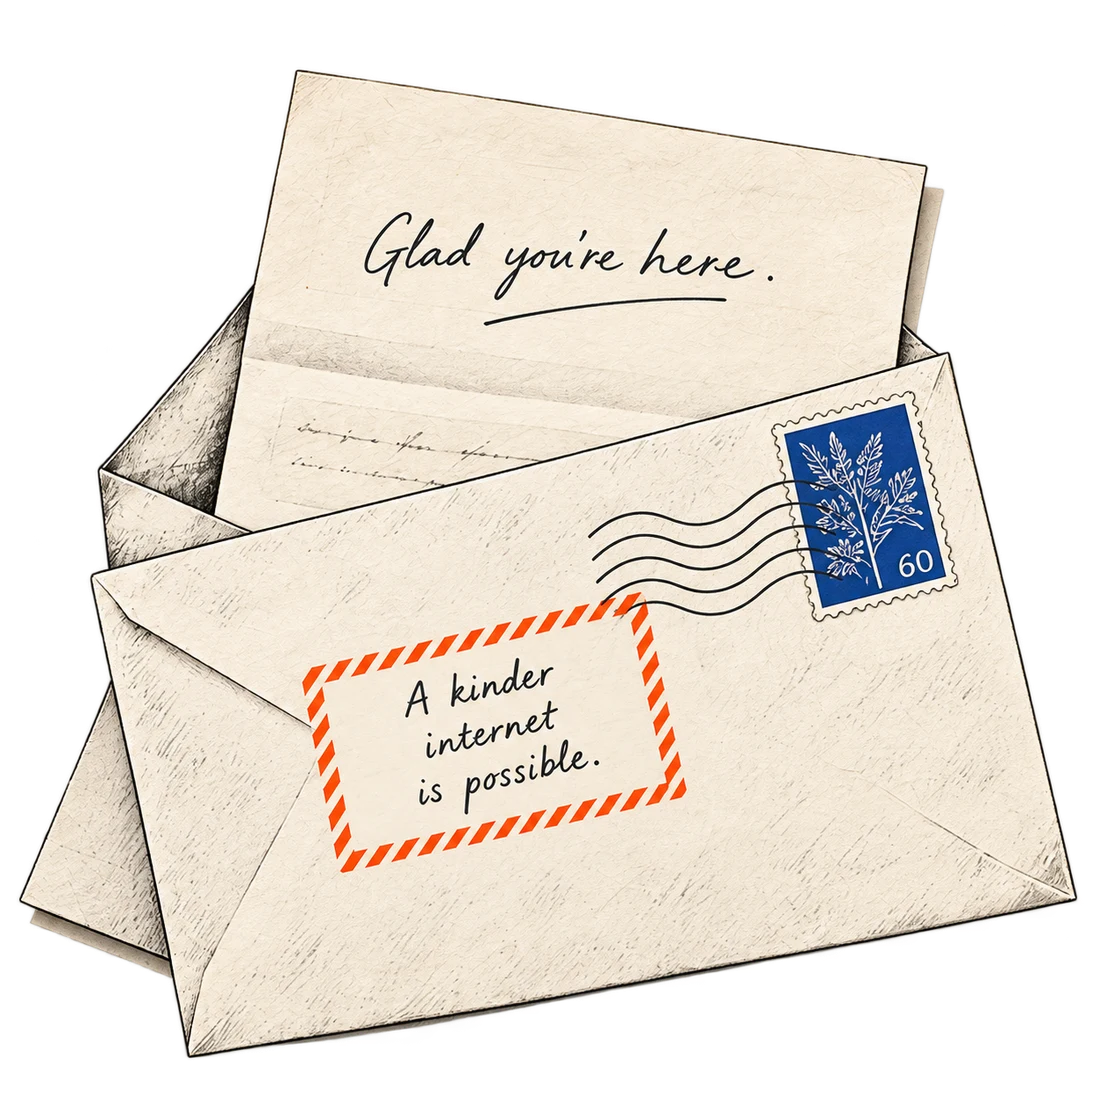
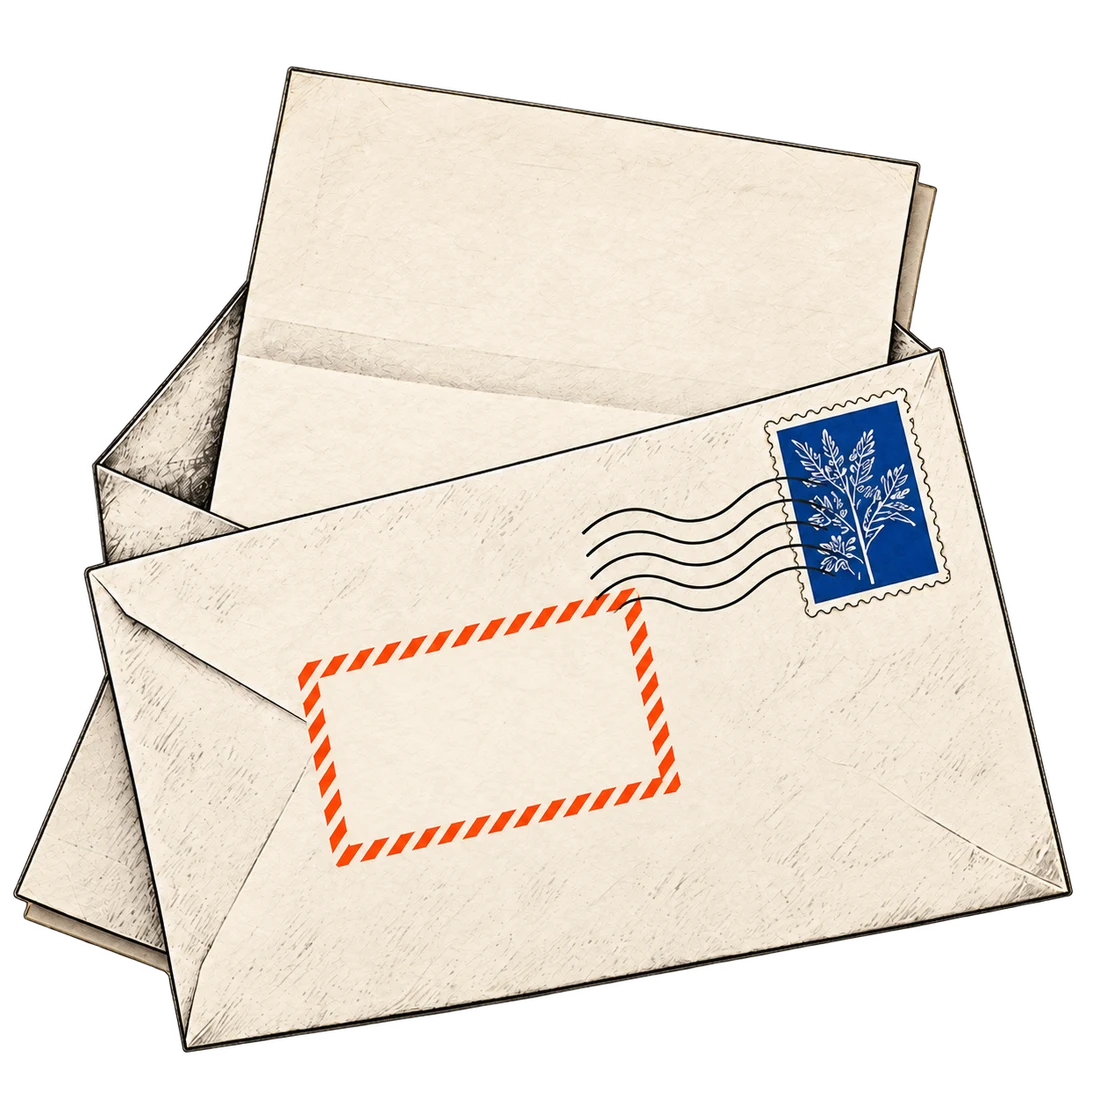
Remove unapproved slogans from envelope artwork and copy

diff --git a/components/homepage/home-desktop.tsx b/components/homepage/home-desktop.tsx
@@ -158,13 +158,13 @@ export default function HomeDesktop() {
               <p className={styles.tagline}>Turning my ideas, and yours,<br className={styles.desktopBreak} /> into reality.</p>
               <div className={styles.heroActions}><a href="/learn" className={styles.button}>Explore the guides <ArrowRight size={24} aria-hidden="true" /></a><a href="/about" className={styles.textLink}>My story <ArrowUpRight size={16} aria-hidden="true" /></a></div>
             </div>
-            <img className={styles.heroLetter} src="/homepage/welcome-letter-d.webp" width="1024" height="1024" alt="An open paper envelope with a handwritten note: Glad you’re here. A kinder internet is possible." fetchPriority="high" />
+            <img className={styles.heroLetter} src="/homepage/welcome-letter-d.webp" width="1024" height="1024" alt="An open ivory envelope with blank paper and a blue botanical postage stamp." fetchPriority="high" />
           </div>
         </section> : <button className={`${styles.window} ${styles.restoreWelcome}`} type="button" onClick={restoreWelcome}><FileText size={19} aria-hidden="true" /><span>Open Dear Internet,</span><ArrowUpRight size={18} aria-hidden="true" /></button>}
         {contactOpen && <section className={`${styles.window} ${styles.contactWindow} ${activeWindow === "contact" ? styles.activeWindow : ""}`} aria-labelledby="contact-title" onPointerDown={() => setActiveWindow("contact")} onFocusCapture={() => setActiveWindow("contact")}>
           <WindowBar title="Keep in touch" warm onMinimize={() => setContactOpen(false)} onClose={() => setContactOpen(false)} />
           <div className={styles.contactBody}>
-            <h2 id="contact-title">A little mail from Michelle.</h2>
+            <h2 id="contact-title">Magazine &amp; pen pals</h2>
             <a href={signupForms.magazine.pagePath} onClick={event => handleSignupLink(event, signupForms.magazine.pagePath)}><span><strong>Magazine</strong><small>Join the magazine waitlist</small></span><ArrowUpRight size={20} aria-hidden="true" /></a>
             <a href={signupForms.penpals.pagePath} onClick={event => handleSignupLink(event, signupForms.penpals.pagePath)}><span><strong>Pen pals</strong><small>Want a handwritten letter from me?</small></span><ArrowUpRight size={20} aria-hidden="true" /></a>
           </div>

diff --git a/docs/selected-d-assets.md b/docs/selected-d-assets.md
@@ -8,7 +8,22 @@ Michelle selected Deep Denim Bright Windows (Library `libfile_815b1ecd5c38819187
 - Computer windows, text, buttons, navigation, focus, and window controls are HTML/CSS/React, not part of the generated images.
 - Typography uses system Times and Georgia. No Soup du Jour webfont was embedded. The reported MyFonts webfont license needs domain/expiry verification before future embedding; no payment or renewal was changed.
 
-## Envelope prompt
+## Current envelope text-removal edit
+
+The initial mockup wording was not approved brand copy. The final asset removes all lettering instead of inventing a mission or replacing the slogan. The four existing navigation illustrations were visually audited and retained unchanged; none contains readable generic slogans.
+
+```text
+Generate an image with the following prompt, dont change it(DO NOT CHANGE THIS PROMPT, IT'S ALREADY AN IMPROVED PROMPT) -
+
+Task: precise text removal from the attached transparent envelope illustration.
+Aspect ratio: 1:1.
+Edit target: the attached existing envelope artwork.
+Change only: remove ALL handwriting, words, slogans, letters and numbers, including "Glad you’re here.", its underline, the "A kinder internet is possible." label wording, tiny script on the inner folded paper, and the stamp's number. Replace those marks with matching blank ivory paper texture or matching blue stamp texture. The orange-bordered label must be blank. The letter sticking out must be blank.
+Preserve: the exact envelope and paper composition, orientation, scale, outline style, paper grain, cream/navy/orange palette, navy botanical postage stamp, black postal cancellation wavy lines, orange airmail border, layered paper edges, transparency and shadow.
+Constraints: actual transparent background. No replacement slogans, no new copy, no symbols added, no new objects, no redesigned illustration. Avoid excessive yellow.
+```
+
+## Superseded initial envelope prompt — provenance only
 
 ```text
 Generate an image with the following prompt, dont change it(DO NOT CHANGE THIS PROMPT, IT'S ALREADY AN IMPROVED PROMPT) -

diff --git a/docs/michellescomputer-preview.md b/docs/michellescomputer-preview.md
@@ -15,6 +15,14 @@ The current review implements Michelle’s selected **D — Deep Denim Bright Wi
 - The confirmed smooth native retro cursor fix is retained: preloaded PNGs with one silhouette and shared (3,2) hotspot; no JavaScript cursor follower. Text fields retain a native text cursor.
 - System Times/Georgia provide the selected serif direction. No new webfont license is assumed or embedded. Existing full-site content and proposal routes remain intact.
 
+## Artwork and copy audit
+
+The D reference is visual direction, not approved brand copy. The envelope asset was edited to remove every word, slogan, handwritten line, underline, and stamp numeral. Its paper, outline, blue botanical stamp, orange airmail label and composition remain. Its alt text now describes the blank artwork. The small window heading is the functional “Magazine & pen pals.”
+
+The exact existing Learn, Resources, Magazine and Pen pals icons were visually inspected at full resolution. They contain notebook squiggles, document lines, an abstract magazine masthead and envelope marks, but no readable feel-good slogans; they remain unchanged. The magazine banner contains only the brand and “the magazine.” No “good days” wording was found in the current shipped homepage illustrations or copy. Historical mockup text is not reused as a mission statement. The original verified “Turning my ideas, and yours, into reality.” remains.
+
+Both forms loaded on first open in the hosted D desktop preview. The hosted phone pen-pal form initially displayed a blank iframe; Reload restored all fields in the same362px window. No data was entered or submitted.
+
 ## Existing signup destinations and storage
 
 - Magazine: **https://tally.so/r/zxP9JM**. First name and email, for magazine updates as it comes together. Tally stores the responses; the form’s Integrations view showed no connected destinations.
